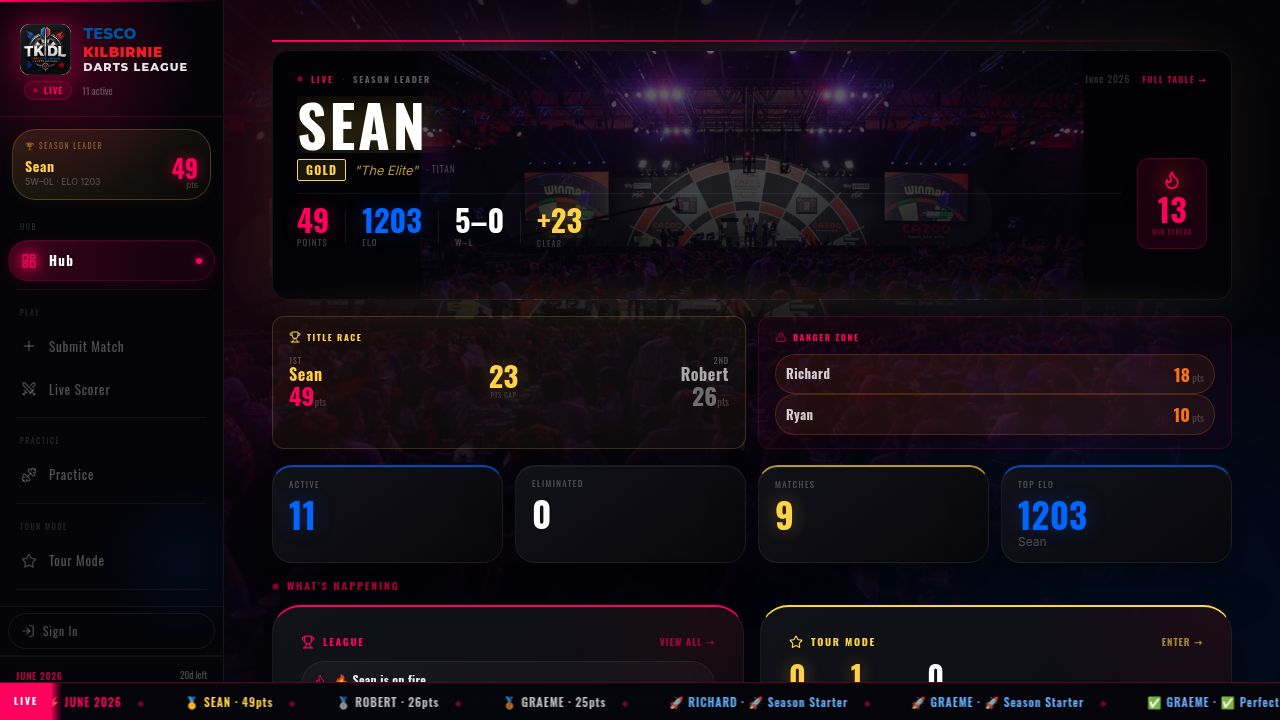
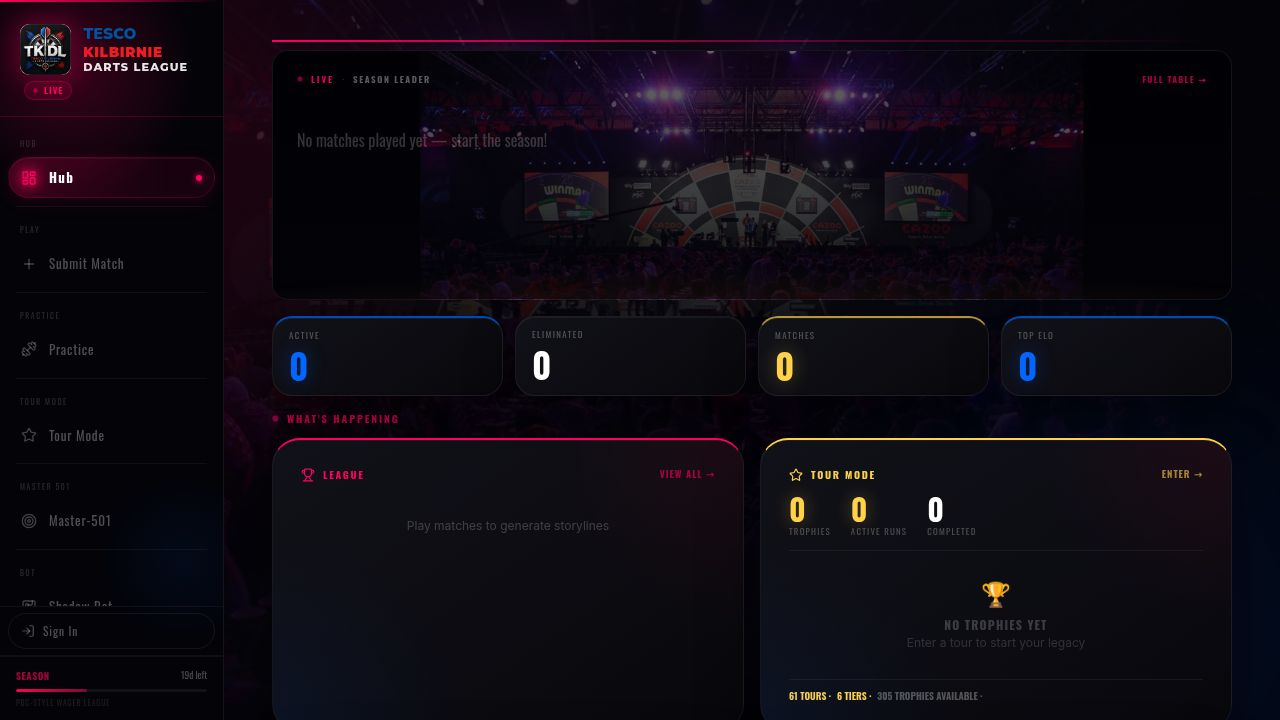
Add Master 501 achievements and Bull Up functionality
Includes a new API endpoint for fetching M501 gamerscore, updates the account page to display M501 gamerscore, and implements the Bull Up overlay in the tour run component.

Replit-Commit-Author: Agent
Replit-Commit-Session-Id: f2b2fddd-2cd9-41d4-b4be-58d31178fc76
Replit-Commit-Checkpoint-Type: full_checkpoint
Replit-Commit-Event-Id: 22919759-5e3c-46cb-8a33-36c3b1669b6d
Replit-Commit-Screenshot-Url: https://storage.googleapis.com/screenshot-production-us-central1/876e67d2-8392-4661-aacb-509024a882dd/f2b2fddd-2cd9-41d4-b4be-58d31178fc76/UP83tyc
Replit-Helium-Checkpoint-Created: true

diff --git a/artifacts/tkdl/src/pages/tour-run.tsx b/artifacts/tkdl/src/pages/tour-run.tsx
@@ -325,10 +325,19 @@ export default function TourRun() {
   const [loading, setLoading] = useState(true);
   const [scoring, setScoring] = useState(false);
   const [lastResult, setLastResult] = useState<{ won: boolean; eliminated: boolean } | null>(null);
-  const [advancing, setAdvancing] = useState(false);
+  const [advancing,   setAdvancing]   = useState(false);
+  const [bullup,      setBullup]      = useState(false);
+  const [bullResult,  setBullResult]  = useState<{ playerScore: number; botScore: number; playerFirst: boolean } | null>(null);
 
   const pendingStatsRef = useRef<PracticeStats | null>(null);
   const matchStartRef   = useRef<number>(Date.now());
+
+  const handleBullThrow = (playerScore: number) => {
+    const BOT_POOL = [50, 50, 25, 25, 25, 20, 18, 16, 14, 11, 9, 7, 5, 3, 1, 0];
+    const botScore = BOT_POOL[Math.floor(Math.random() * BOT_POOL.length)];
+    setBullResult({ playerScore, botScore, playerFirst: playerScore >= botScore });
+    setTimeout(() => { setBullResult(null); setBullup(false); setScoring(true); }, 3000);
+  };
 
   useEffect(() => {
     if (!runId) return;
@@ -426,6 +435,91 @@ export default function TourRun() {
   const diffColor = DIFF_COLORS[run.difficulty] ?? "#94a3b8";
   const opponent = getCurrentOpponent();
   const gameType = gameTypes.find(g => g.key === run.game_type_key);
+
+  // ── Bull Up overlay ───────────────────────────────────────────────────────
+  if (bullup && opponent) {
+    const threw = bullResult !== null;
+    const ScoreLabel = ({ score }: { score: number }) => {
+      if (score === 50) return <><span style={{ color: "#ff005c" }}>BULL</span> <span style={{ color: "rgba(255,255,255,0.35)", fontSize: "0.8em" }}>50</span></>;
+      if (score === 25) return <><span style={{ color: "#ffd24a" }}>OUTER BULL</span> <span style={{ color: "rgba(255,255,255,0.35)", fontSize: "0.8em" }}>25</span></>;
+      if (score === 0)  return <span style={{ color: "rgba(255,255,255,0.25)" }}>MISS</span>;
+      return <span style={{ color: "rgba(255,255,255,0.6)" }}>{score}</span>;
+    };
+    return createPortal(
+      <div style={{ position: "fixed", inset: 0, zIndex: 9999, background: "rgba(4,4,10,0.97)", display: "flex", alignItems: "center", justifyContent: "center", padding: "1rem" }}>
+        <div style={{ width: "100%", maxWidth: "22rem", display: "flex", flexDirection: "column", gap: "1.5rem" }}>
+          {/* Header */}
+          <div style={{ textAlign: "center" }}>
+            <div style={{ fontFamily: "Oswald, sans-serif", fontSize: "0.6rem", letterSpacing: "0.22em", color: tierColor, textTransform: "uppercase", fontWeight: 900, marginBottom: "0.25rem" }}>
+              {run.tour_name}
+            </div>
+            <div style={{ fontFamily: "Oswald, sans-serif", fontSize: "2.4rem", fontWeight: 900, color: "#fff", lineHeight: 1, textTransform: "uppercase" }}>BULL UP</div>
+            <div style={{ fontSize: "0.8rem", color: "rgba(255,255,255,0.35)", fontFamily: "Oswald, sans-serif", marginTop: "0.25rem" }}>
+              {threw ? "Closest to the bull throws first" : `You vs ${opponent.flag} ${opponent.name}`}
+            </div>
+          </div>
+
+          {/* Scoreboard after throw */}
+          {threw && bullResult && (
+            <div style={{ borderRadius: "1rem", overflow: "hidden", border: `1px solid ${bullResult.playerFirst ? "rgba(34,197,94,0.3)" : "rgba(255,0,92,0.3)"}` }}>
+              <div style={{ display: "flex", alignItems: "center", justifyContent: "space-between", padding: "1rem 1.25rem", background: bullResult.playerFirst ? "rgba(34,197,94,0.08)" : "rgba(255,255,255,0.03)" }}>
+                <div>
+                  <div style={{ fontFamily: "Oswald, sans-serif", fontWeight: 900, fontSize: "0.85rem", color: bullResult.playerFirst ? "#22c55e" : "rgba(255,255,255,0.55)", textTransform: "uppercase" }}>YOU</div>
+                  {bullResult.playerFirst && <div style={{ fontFamily: "Oswald, sans-serif", fontSize: "0.52rem", color: "#22c55e", letterSpacing: "0.12em", textTransform: "uppercase", fontWeight: 900 }}>✓ THROWS FIRST</div>}
+                </div>
+                <div style={{ fontFamily: "Oswald, sans-serif", fontWeight: 900, fontSize: "1.5rem" }}><ScoreLabel score={bullResult.playerScore} /></div>
+              </div>
+              <div style={{ height: 1, background: "rgba(255,255,255,0.06)" }} />
+              <div style={{ display: "flex", alignItems: "center", justifyContent: "space-between", padding: "1rem 1.25rem", background: !bullResult.playerFirst ? "rgba(255,0,92,0.08)" : "rgba(255,255,255,0.03)" }}>
+                <div>
+                  <div style={{ fontFamily: "Oswald, sans-serif", fontWeight: 900, fontSize: "0.85rem", color: !bullResult.playerFirst ? "#ff005c" : "rgba(255,255,255,0.4)", textTransform: "uppercase" }}>{opponent.flag} {opponent.name}</div>
+                  {!bullResult.playerFirst && <div style={{ fontFamily: "Oswald, sans-serif", fontSize: "0.52rem", color: "#ff005c", letterSpacing: "0.12em", textTransform: "uppercase", fontWeight: 900 }}>✓ THROWS FIRST</div>}
+                </div>
+                <div style={{ fontFamily: "Oswald, sans-serif", fontWeight: 900, fontSize: "1.5rem" }}><ScoreLabel score={bullResult.botScore} /></div>
+              </div>
+            </div>
+          )}
+
+          {/* Throw buttons */}
+          {!threw && (
+            <div style={{ display: "flex", flexDirection: "column", gap: "0.75rem" }}>
+              {[
+                { score: 50, label: "🎯 BULL", sub: "50", bg: "rgba(255,0,92,0.1)", border: "rgba(255,0,92,0.4)", col: "#ff005c" },
+                { score: 25, label: "⭕ OUTER BULL", sub: "25", bg: "rgba(255,210,74,0.07)", border: "rgba(255,210,74,0.3)", col: "#ffd24a" },
+                { score: 0,  label: "✗ MISS", sub: "",  bg: "rgba(255,255,255,0.03)", border: "rgba(255,255,255,0.08)", col: "rgba(255,255,255,0.3)" },
+              ].map(({ score, label, sub, bg, border, col }) => (
+                <button key={score} onClick={() => handleBullThrow(score)}
+                  style={{ width: "100%", padding: "1rem", borderRadius: "0.875rem", fontFamily: "Oswald, sans-serif", fontWeight: 900, fontSize: "0.875rem", textTransform: "uppercase", letterSpacing: "0.14em", background: bg, border: `2px solid ${border}`, color: col, cursor: "pointer" }}>
+                  {label}{sub && <span style={{ color: "rgba(255,255,255,0.3)", fontWeight: 400, marginLeft: "0.5rem" }}>{sub}</span>}
+                </button>
+              ))}
+            </div>
+          )}
+
+          {/* Progress bar */}
+          {threw && (
+            <div style={{ textAlign: "center" }}>
+              <div style={{ fontFamily: "Oswald, sans-serif", fontSize: "0.58rem", color: "rgba(255,255,255,0.25)", letterSpacing: "0.12em", textTransform: "uppercase", marginBottom: "0.5rem" }}>Starting match…</div>
+              <div style={{ width: "100%", height: 3, borderRadius: 9999, background: "rgba(255,255,255,0.07)", overflow: "hidden" }}>
+                <div style={{ height: "100%", background: tierColor, animation: "fill-bar 3s linear forwards", borderRadius: 9999 }} />
+              </div>
+            </div>
+          )}
+
+          {/* Cancel */}
+          {!threw && (
+            <div style={{ textAlign: "center" }}>
+              <button onClick={() => setBullup(false)} style={{ fontFamily: "Oswald, sans-serif", fontSize: "0.7rem", color: "rgba(255,255,255,0.2)", background: "none", border: "none", cursor: "pointer" }}>
+                ← Back to bracket
+              </button>
+            </div>
+          )}
+        </div>
+        <style>{`@keyframes fill-bar { from { width: 0% } to { width: 100% } }`}</style>
+      </div>,
+      document.body
+    );
+  }
 
   // Render GameScorer overlay
   if (scoring && opponent && gameType) {
@@ -530,7 +624,7 @@ export default function TourRun() {
             onPlay={() => {
               if (!gameType) { alert("Game type not found"); return; }
               matchStartRef.current = Date.now();
-              setScoring(true);
+              setBullup(true);
             }}
           />
         </div>
@@ -540,7 +634,7 @@ export default function TourRun() {
           onPlay={() => {
             if (!gameType) { alert("Game type not found"); return; }
             matchStartRef.current = Date.now();
-            setScoring(true);
+            setBullup(true);
           }}
         />
       )}

diff --git a/artifacts/api-server/src/routes/players.ts b/artifacts/api-server/src/routes/players.ts
@@ -445,11 +445,11 @@ router.get("/players/:id/gamerscore", async (req, res): Promise<void> => {
     const playerId = parseInt(req.params.id, 10);
     if (!playerId) { res.status(400).json({ error: "Invalid player id" }); return; }
 
-    const [leagueQ, shadowQ, trophyQ, tourAchievQ] = await Promise.all([
+    const [leagueQ, shadowQ, trophyQ, tourAchievQ, m501Q] = await Promise.all([
       db.execute(sql`
         SELECT a.rarity FROM player_achievements pa
         JOIN achievements a ON a.id = pa.achievement_id
-        WHERE pa.player_id = ${playerId}
+        WHERE pa.player_id = ${playerId} AND a.key NOT LIKE 'M501_%'
       `),
       db.execute(sql`
         SELECT achievement_key FROM shadow_bot_achievements WHERE player_id = ${playerId}
@@ -463,6 +463,11 @@ router.get("/players/:id/gamerscore", async (req, res): Promise<void> => {
         JOIN tour_achievement_definitions tad ON tad.key = pta.achievement_key
         WHERE pta.player_id = ${playerId}
       `).catch(() => ({ rows: [{ total: 0 }] })),
+      db.execute(sql`
+        SELECT a.rarity FROM player_achievements pa
+        JOIN achievements a ON a.id = pa.achievement_id
+        WHERE pa.player_id = ${playerId} AND a.key LIKE 'M501_%'
+      `),
     ]);
 
     const leagueTotal = (leagueQ.rows as { rarity: string }[])
@@ -476,13 +481,16 @@ router.get("/players/:id/gamerscore", async (req, res): Promise<void> => {
 
     const tourTrophyTotal = (trophyQ.rows[0] as { total: number }).total ?? 0;
     const tourAchievTotal = (tourAchievQ.rows[0] as { total: number }).total ?? 0;
+    const m501Total       = (m501Q.rows as { rarity: string }[])
+      .reduce((sum, r) => sum + gamerscoreForRarity(r.rarity), 0);
 
     res.json({
-      total: leagueTotal + shadowTotal + tourTrophyTotal + tourAchievTotal,
-      league: leagueTotal,
-      shadowBot: shadowTotal,
+      total: leagueTotal + shadowTotal + tourTrophyTotal + tourAchievTotal + m501Total,
+      league:       leagueTotal,
+      shadowBot:    shadowTotal,
       tourTrophies: tourTrophyTotal,
       tourAchievements: tourAchievTotal,
+      master501:    m501Total,
     });
   } catch (err) {
     req.log.error({ err }, "Failed to get gamerscore");

diff --git a/artifacts/tkdl/src/pages/account.tsx b/artifacts/tkdl/src/pages/account.tsx
@@ -256,6 +256,7 @@ export default function AccountPage() {
   const gsLeague = gamerscore?.league ?? 0;
   const gsBot    = gamerscore?.shadowBot ?? 0;
   const gsTour   = (gamerscore?.tourTrophies ?? 0) + (gamerscore?.tourAchievements ?? 0);
+  const gsM501   = gamerscore?.master501 ?? 0;
 
   return (
     <div className="max-w-2xl mx-auto space-y-4 pb-8">
@@ -393,6 +394,7 @@ export default function AccountPage() {
             { label: "League",     val: gsLeague, col: "#ff005c" },
             { label: "Shadow Bot", val: gsBot,    col: "#00e5a0" },
             { label: "Tour",       val: gsTour,   col: "#a855f7" },
+            { label: "M·501",      val: gsM501,   col: "#00c8a0" },
           ].map(({ label, val, col }) => (
             <div key={label} className="flex-1 rounded-xl p-2.5 text-center"
               style={{ background: `${col}0c`, border: `1px solid ${col}22` }}>